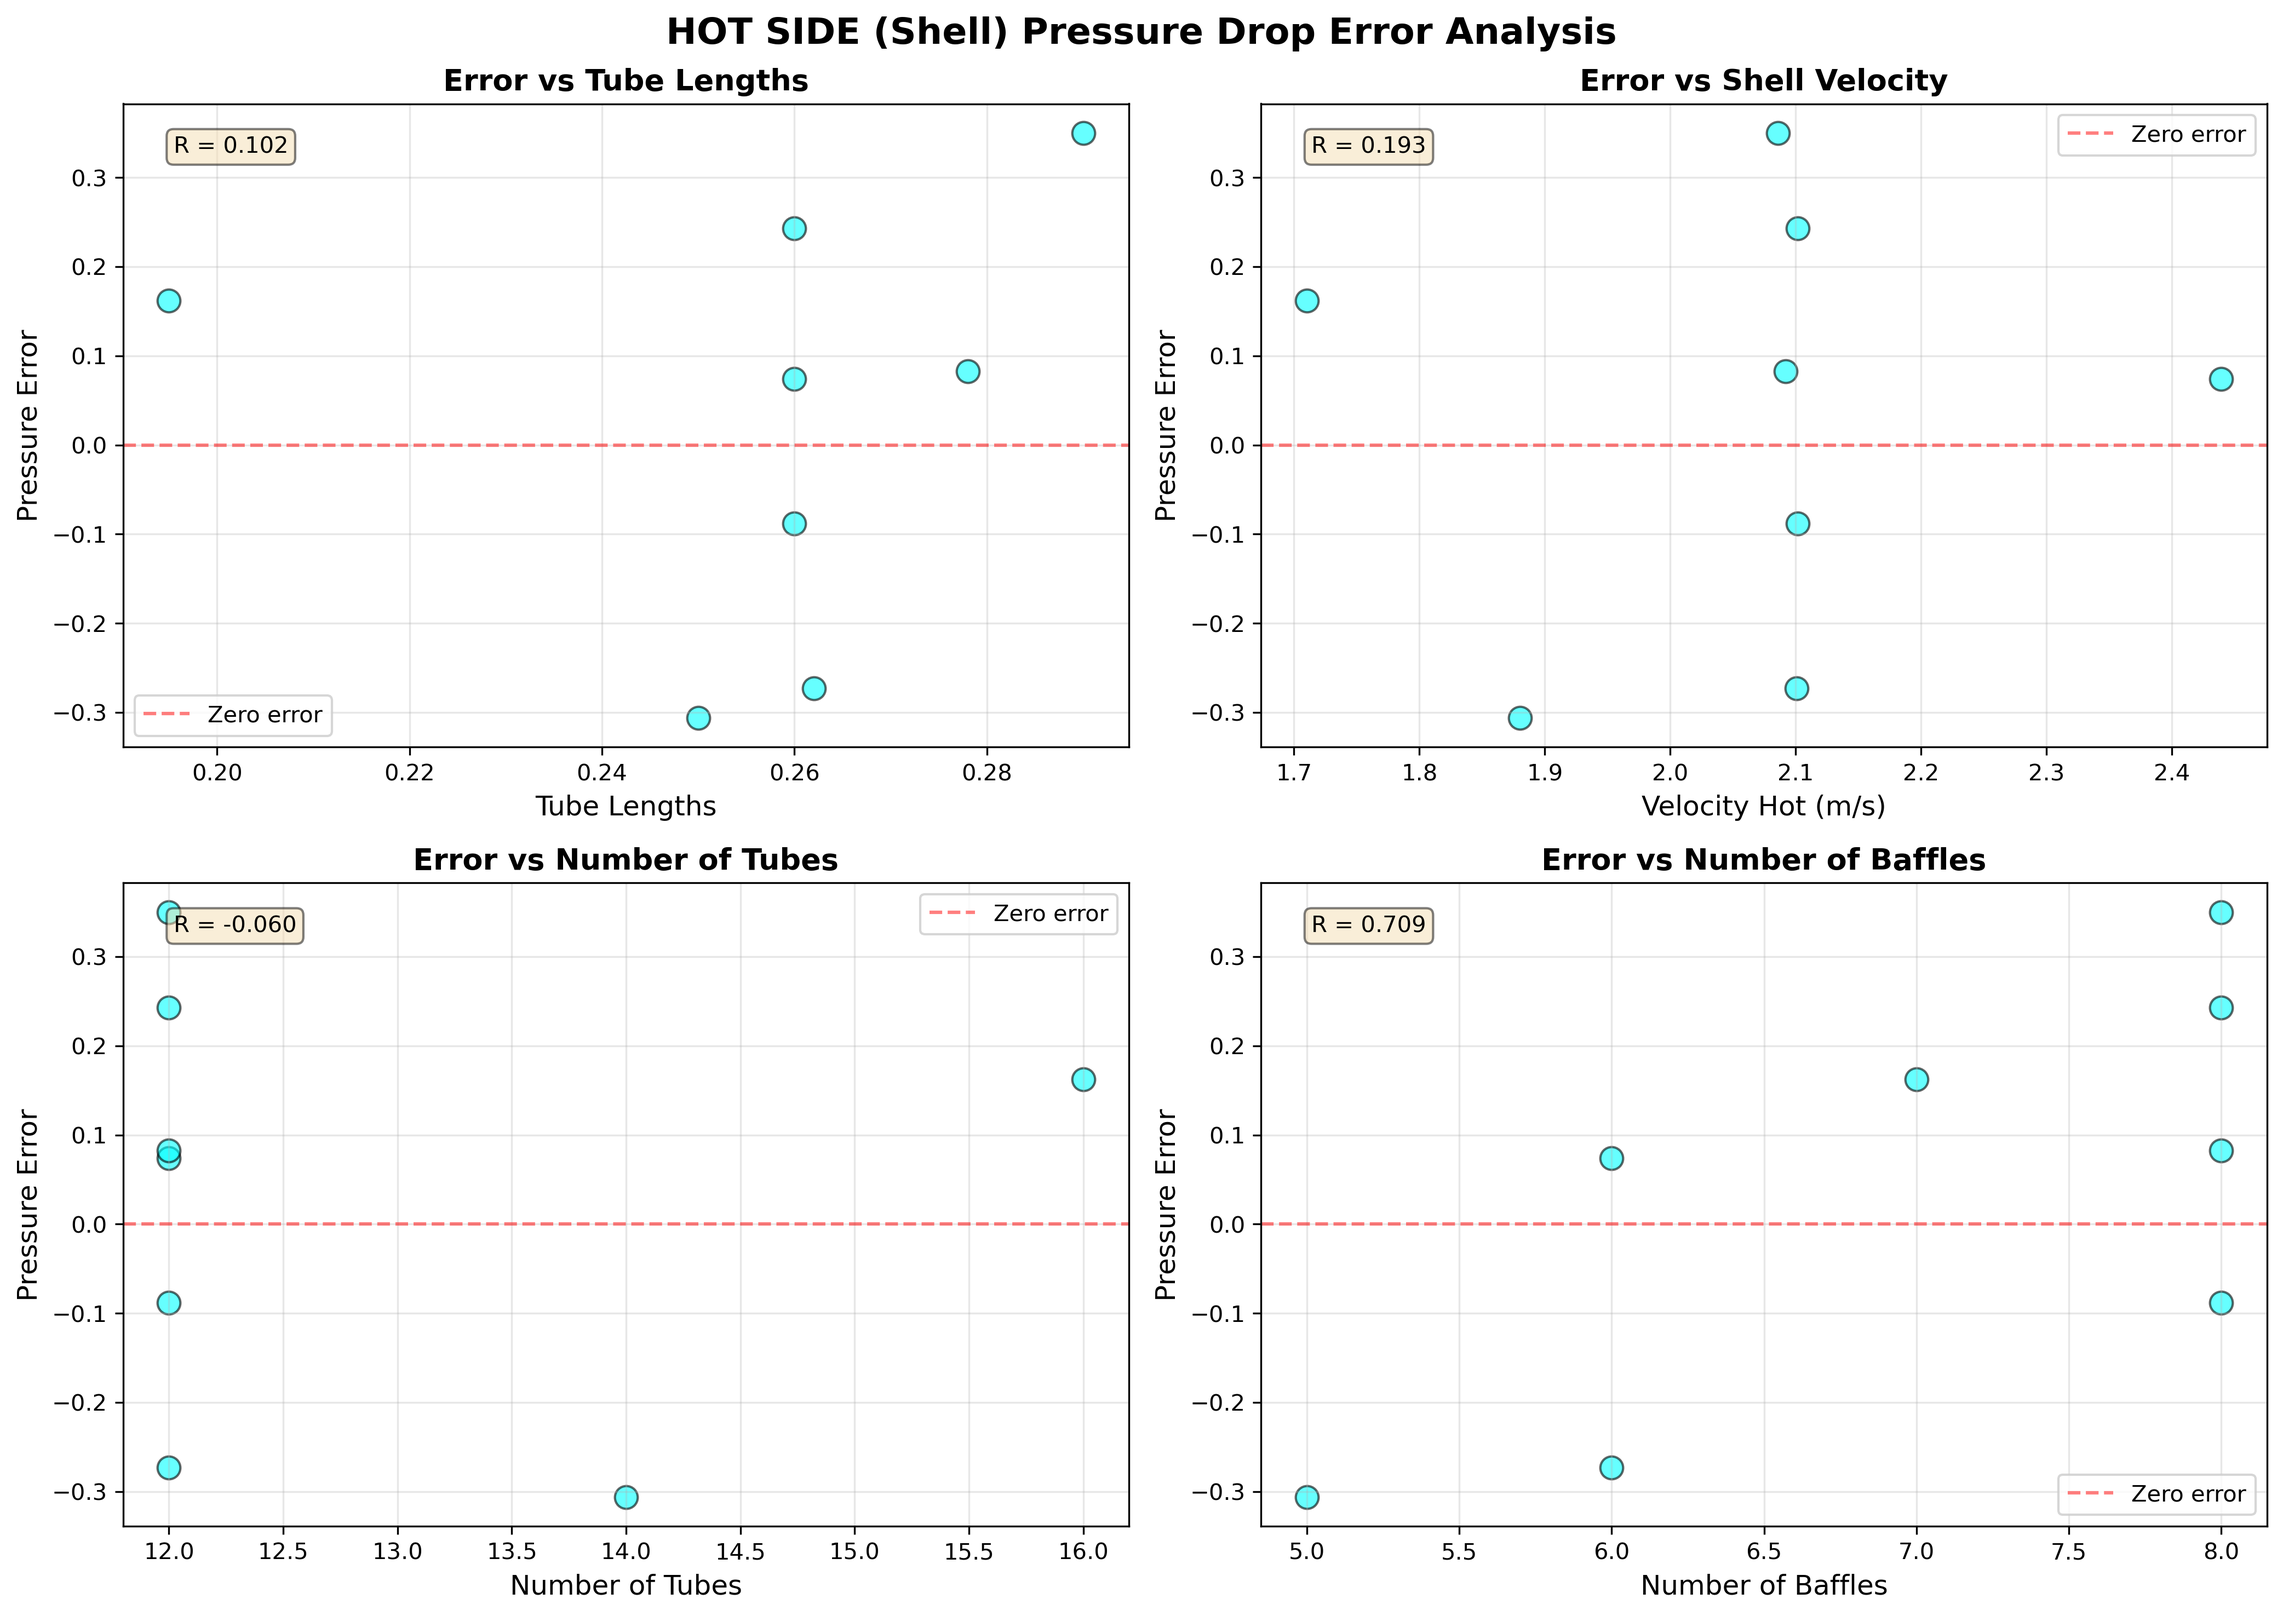
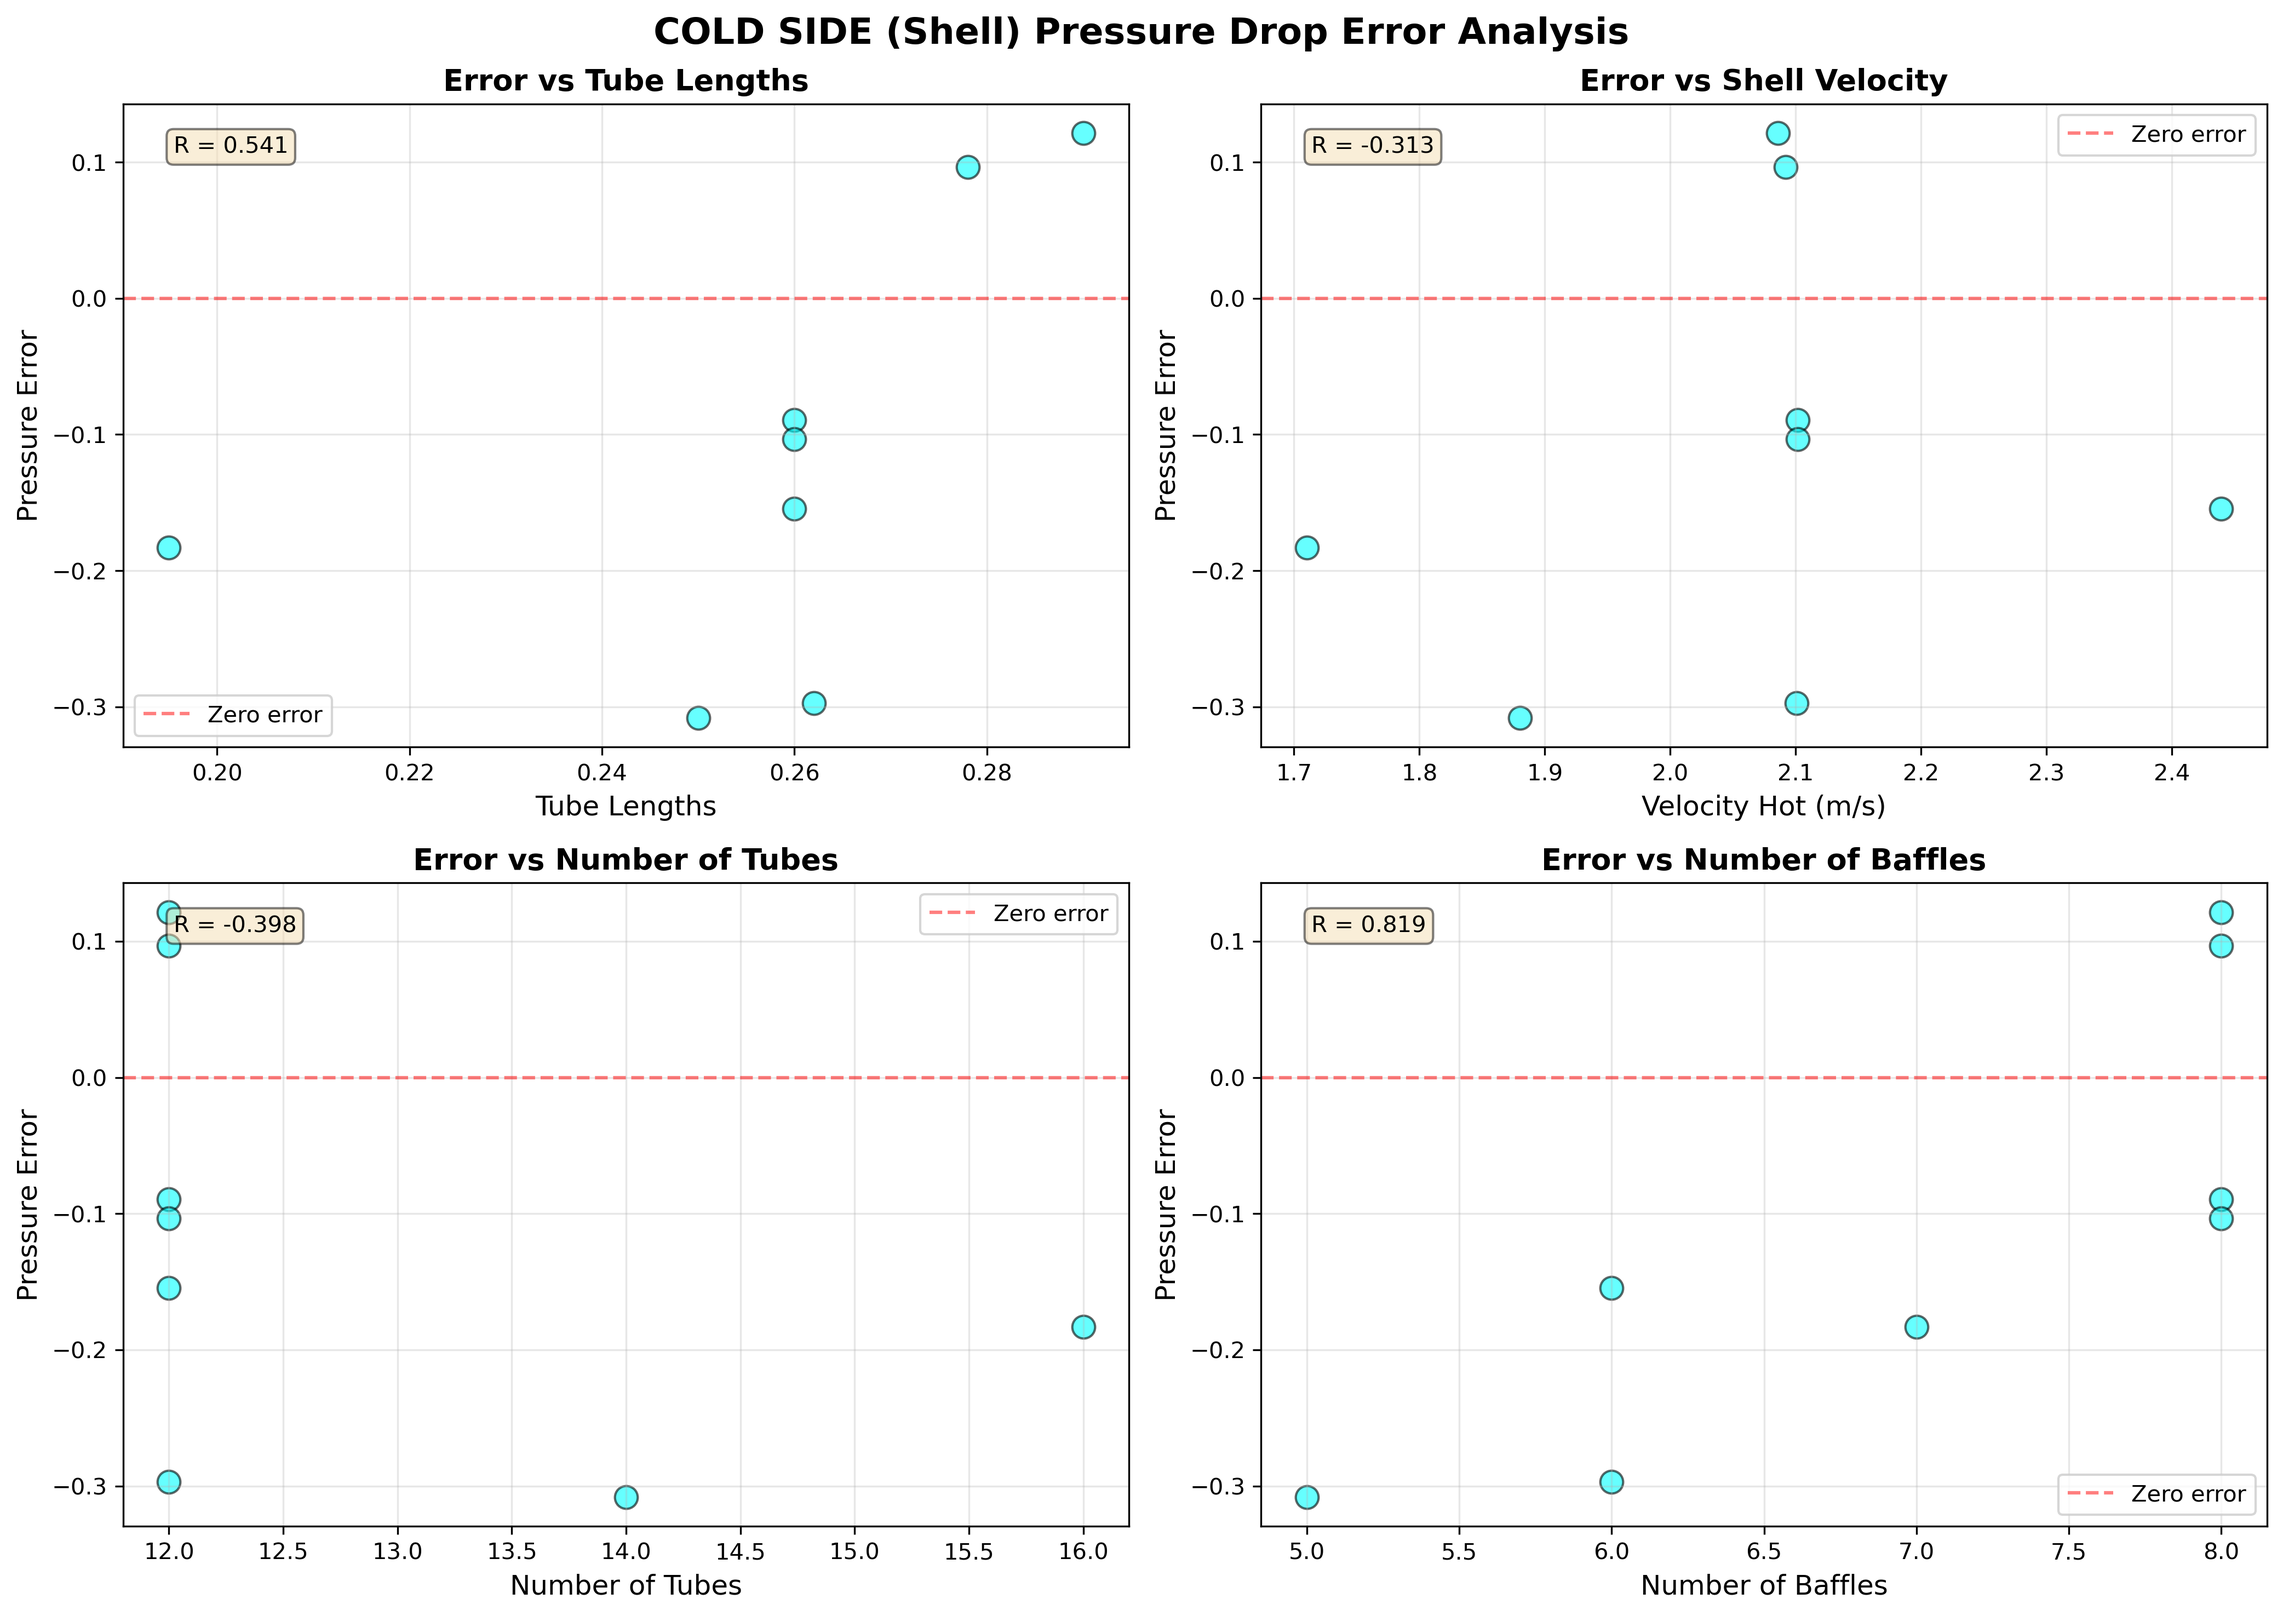
can't even remember what I did tbh

diff --git a/bruteForce.py b/bruteForce.py
@@ -15,6 +15,12 @@ baffles = np.arange(1,15)
 shell_passes = [1,2]
 shapes = [False]
 
+# lengths = [0.2426]
+# baffles = [11]
+# shell_passes = [2]
+# shapes = [False]
+# tubeNumber = 10
+
 Qmax_LMTD = 0
 Qmax_eNTU = 0
 params_LMTD = []
@@ -50,7 +56,7 @@ for length in lengths:
                                 params_eNTU = [tube,baffle,length,pitch,shape,shell_pass*2,shell_pass]
 
                             percent = i / total
-                            bar = "#" * int(percent * 40)
+                            bar = "#" * int(percent * 40) + "#"
                             spaces = " " * (40 - len(bar))
                             output.append([tube,baffle,length,pitch,shape,shell_pass*2,shell_pass,Q_LMTD,Q_eNTU])
                         print(f"\r[{bar}{spaces}] {percent:.0%}")
@@ -67,7 +73,7 @@ for length in lengths:
                                 params_eNTU = [tube,baffle,length,pitch,shape,shell_pass,shell_pass]
 
                             percent = i / total
-                            bar = "#" * int(percent * 40)
+                            bar = "#" * int(percent * 40) + "#"
                             spaces = " " * (40 - len(bar))
                             output.append([tube,baffle,length,pitch,shape,shell_pass,shell_pass,Q_LMTD,Q_eNTU])
                         print(f"\r[{bar}{spaces}] {percent:.0%}")

diff --git a/test_pressure_change.py b/test_pressure_change.py
@@ -164,8 +164,8 @@ cold_errors = np.array(cold_errors)
 # COLD SIDE PLOTS
 # -----------------------------
 
-errors = [a for a in rel_hot_errors]
-hotcold = 'HOT'
+errors = [a for a in rel_cold_errors]
+hotcold = 'COLD'
 fig, axes = plt.subplots(2, 2, figsize=(14, 10))
 fig.suptitle(hotcold + ' SIDE (Shell) Pressure Drop Error Analysis', fontsize=16, fontweight='bold')
 
